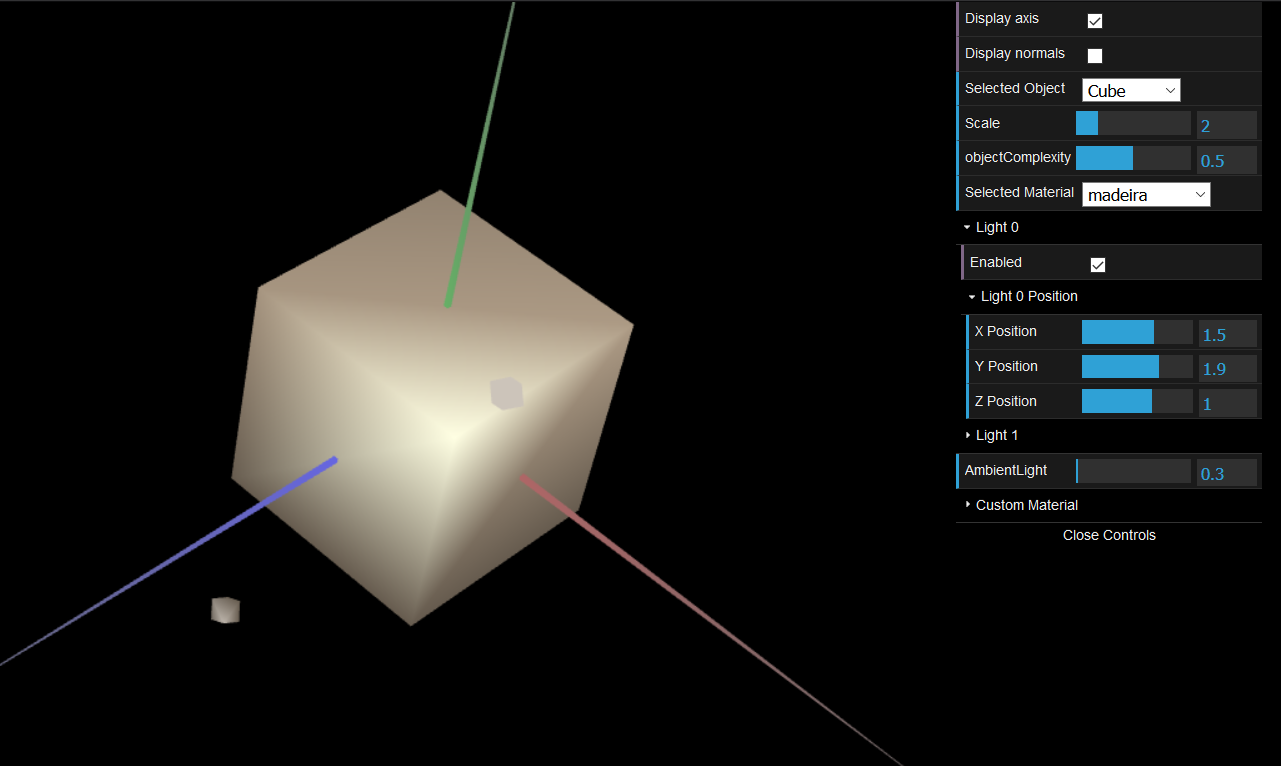
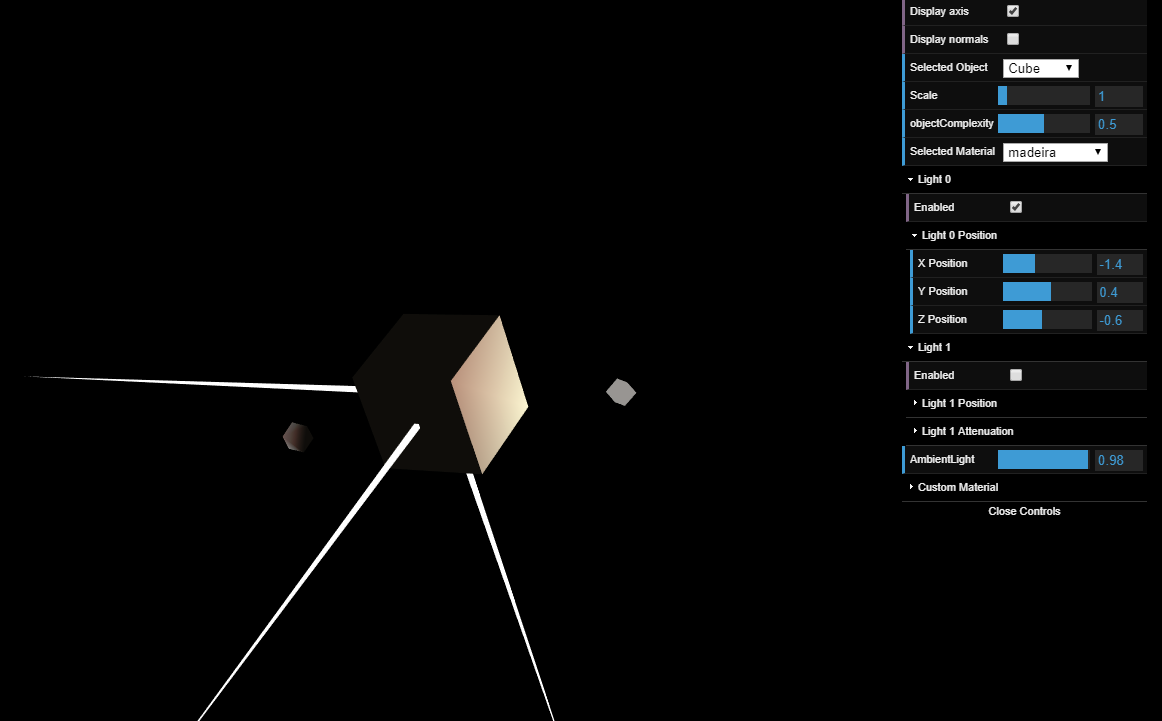
aula 3 fixed

diff --git a/aula3/Mycube.js b/aula3/Mycube.js
@@ -5,97 +5,138 @@ class MyCube extends CGFobject {
 	}
 	initBuffers() {
 		this.vertices = [
-			-0.5, -0.5, -0.5,	//0
-			-0.5, -0.5, -0.5,	//1
-			-0.5, -0.5, -0.5,	//2
+			//face tras
+			-0.5, -0.5, -0.5,	//0    0
+			0.5, -0.5, -0.5, 	//3		1
+			0.5, 0.5, -0.5,		//18	2
+			-0.5, 0.5, -0.5, 	//21	3
+			
+			//face baixo
+			-0.5, -0.5, -0.5,	//0		4
+			0.5, -0.5, -0.5,	//3		5
+			0.5, -0.5, 0.5,		//6		6
+			-0.5, -0.5, 0.5,	//9		7
 
-			0.5, -0.5, -0.5,	//3
-			0.5, -0.5, -0.5,	//4
-			0.5, -0.5, -0.5,	//5
+			//face direita
+			0.5, -0.5, -0.5,	//3		8
+			0.5, -0.5, 0.5,		//6		9
+			0.5, 0.5, 0.5,		//15	10
+			0.5, 0.5, -0.5,		//18	11
 
-			0.5, -0.5, 0.5,		//6
-			0.5, -0.5, 0.5,		//7
-			0.5, -0.5, 0.5,		//8
+			//face esquerda
+			-0.5, -0.5, -0.5,	//0		12
+			-0.5, -0.5, 0.5,	//9		13
+			-0.5, 0.5, 0.5,		//12	14
+			-0.5, 0.5, -0.5,	//21	15
 
-			-0.5, -0.5, 0.5,	//9
-			-0.5, -0.5, 0.5,	//10
-			-0.5, -0.5, 0.5,	//11
-
-			-0.5, 0.5, 0.5,		//12
-			-0.5, 0.5, 0.5,		//13
-			-0.5, 0.5, 0.5,		//14
-
-			0.5, 0.5, 0.5,		//15
-			0.5, 0.5, 0.5,		//16
-			0.5, 0.5, 0.5,		//17
-
-			0.5, 0.5, -0.5,		//18
-			0.5, 0.5, -0.5,		//19
-			0.5, 0.5, -0.5,		//20
-
-			-0.5, 0.5, -0.5,	//21
-			-0.5, 0.5, -0.5,	//22
-			-0.5, 0.5, -0.5,	//23
+			//face cima
+			-0.5, 0.5, 0.5,		//12	16
+			0.5, 0.5, 0.5,		//15	17
+			0.5, 0.5, -0.5,		//18	18
+			-0.5, 0.5, -0.5,	//21	19
+			
+			//face frente
+			0.5, -0.5, 0.5,		//6		20
+			-0.5, -0.5, 0.5,	//9		21
+			-0.5, 0.5, 0.5,		//12	22
+			0.5, 0.5, 0.5,		//15	23
 		];
 
 		//Counter-clockwise reference of vertices
 		this.indices = [
+		//face tras
+		1, 0, 2,
+		0, 3, 2,
+
+		//face baixo
+		6,7,4,
+		5,6,4,
+
+		//face direita
+		8,11,10,
+		9,8,10,
+
+		//face esquerda
+		13,14,15,
+		13,15,12,
+
+
+		//face cima
+		17,18,19,
+		16,17,19,
+
+
+
+		//face frente
+		21,20,23,
+		21,23,22,
+
+
+			/*
 			1*3,2*3,3*3,
 			1*3,3*3,0,  //1
+
 			3*3,2*3,5*3,
 			3*3,5*3,4*3,  //2
+
 			2*3,1*3,6*3,
 			2*3,6*3,5*3,  //3
+
 			1*3,0,6*3,
 			6*3,0,7*3,  //4
+
 			0,3*3,4*3,
 			0,4*3,7*3,  //5
+
 			4*3,5*3,6*3,
-			4*3,6*3,7*3,  //6
+			4*3,6*3,7*3,  //6*/
 		];
+
+		//face de tras
+		
+
+
+
+		
 		this.primitiveType = this.scene.gl.TRIANGLES;
 
 		this.normals = [
 			
-			//vertice 0
-			0,-1,0, 
-			-1,0,0,
-			0,0,-1,
+			//face tras
+			0, 0, -1,
+			0, 0, -1,
+			0, 0, -1,
+			0, 0, -1,
 
-			//3
-			0,-1,0,
-			1,0,0,
-			0,0,-1,
+			//face baixo
+			0, -1, 0,
+			0, -1, 0,
+			0, -1, 0,
+			0, -1, 0,
 
-			//6
-			0,-1,0,
-			1,0,0,
-			0,0,1,
+			//face direita
+			1, 0, 0,
+			1, 0, 0,
+			1, 0, 0,
+			1, 0, 0,
 
-			//9
-			0,-1,0,
-			-1,0,0,
-			0,0,1,
-			
-			//12
-			0,1,0,
-			-1,0,0,
-			0,0,1,
-			
-			//15
-			0,1,0,
-			1,0,0,
-			0,0,1,
-			
-			//18
-			0,1,0,
-			1,0,0,
-			0,0,-1,
-			
-			//21
-			0,1,0,
-			-1,0,0,
-			0,0,-1,
+			//face esquerda
+			-1, 0, 0,
+			-1, 0, 0,
+			-1, 0, 0,
+			-1, 0, 0,
+
+			//face cima
+			0, 1, 0,
+			0, 1, 0,
+			0, 1, 0,
+			0, 1, 0,
+
+			//face frente
+			0, 0, 1,
+			0, 0, 1,
+			0, 0, 1,
+			0, 0, 1,
 		]
 
 /*

diff --git a/aula3/MyScene.js b/aula3/MyScene.js
@@ -34,10 +34,10 @@ class MyScene extends CGFscene {
         this.objectIDs = { 'Plane': 0 , 'Pyramid': 1, 'Cone': 2, 'Cube':3, 'Tangram':4};
 
         //Other variables connected to MyInterface
-        this.selectedObject = 4;
-        this.selectedMaterial = 0;
+        this.selectedObject = 3;
+        this.selectedMaterial = 3;
         this.displayAxis = true;
-        this.displayNormals = false;
+        this.displayNormals = true;
         this.objectComplexity = 0.5;
         this.scaleFactor = 1.0;
 		this.AmbientScale = 0.3;
